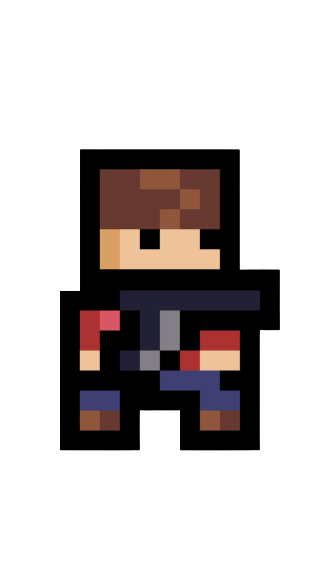
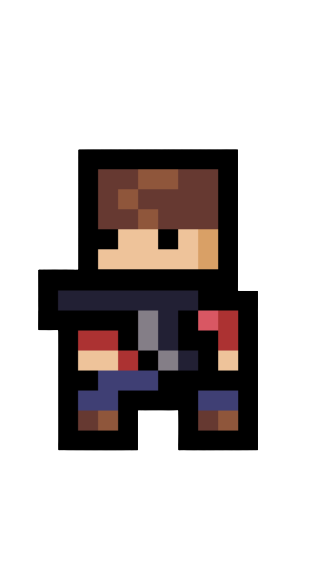
polishing bullet class

diff --git a/src/Bullet.java b/src/Bullet.java
@@ -11,7 +11,7 @@ public class Bullet {
     int height;
     public BufferedImage bulletImg;
 
-    public Bullet(int startX, int startY) {
+    public Bullet(int startX, int startY, BufferedImage bulletImg2) {
         this.x = startX;
         this.y = startY;
         this.speed = 7;
@@ -30,12 +30,8 @@ public class Bullet {
     }
 
     public void draw(Graphics2D g2) {
-        // 3. Draw the image instead of the vector circle
         if (bulletImg != null) {
             g2.drawImage(bulletImg, x, y, width, height, null);
-        } else {
-            // Fallback just in case the image fails to load
-            g2.fillRect(x, y, width, height);
         }
     }
 }

diff --git a/src/Customer.java b/src/Customer.java
@@ -26,6 +26,7 @@ public class Customer extends Entity implements GameObject {
         try {
             customer = ImageIO.read(getClass().getResourceAsStream("/player/customer_one.png"));
             gunFiring = ImageIO.read(getClass().getResourceAsStream("/player/gun_firing.png"));
+            bulletImg = ImageIO.read(getClass().getResourceAsStream("/player/bullet.png"));
         } catch (IOException e) {
             e.printStackTrace();
         }
@@ -39,7 +40,7 @@ public class Customer extends Entity implements GameObject {
     }
 
     public void fire() {
-        Bullet z = new Bullet(x - 10, y + 30); // x and y for where the bullet comes out of a gun
+        Bullet z = new Bullet(x - 10, y + 30, bulletImg); // x and y for where the bullet comes out of a gun
         bullets.add(z);
     }
 

diff --git a/src/Entity.java b/src/Entity.java
@@ -6,7 +6,7 @@ public class Entity {
     int speed;
 
     public BufferedImage chef_right, chef_kick_right, chef_left, chef_kick_left, chef_up;
-    public BufferedImage customer, gunFiring, gunHolding;
+    public BufferedImage customer, gunFiring, bulletImg;
 
     public String direction;
 }